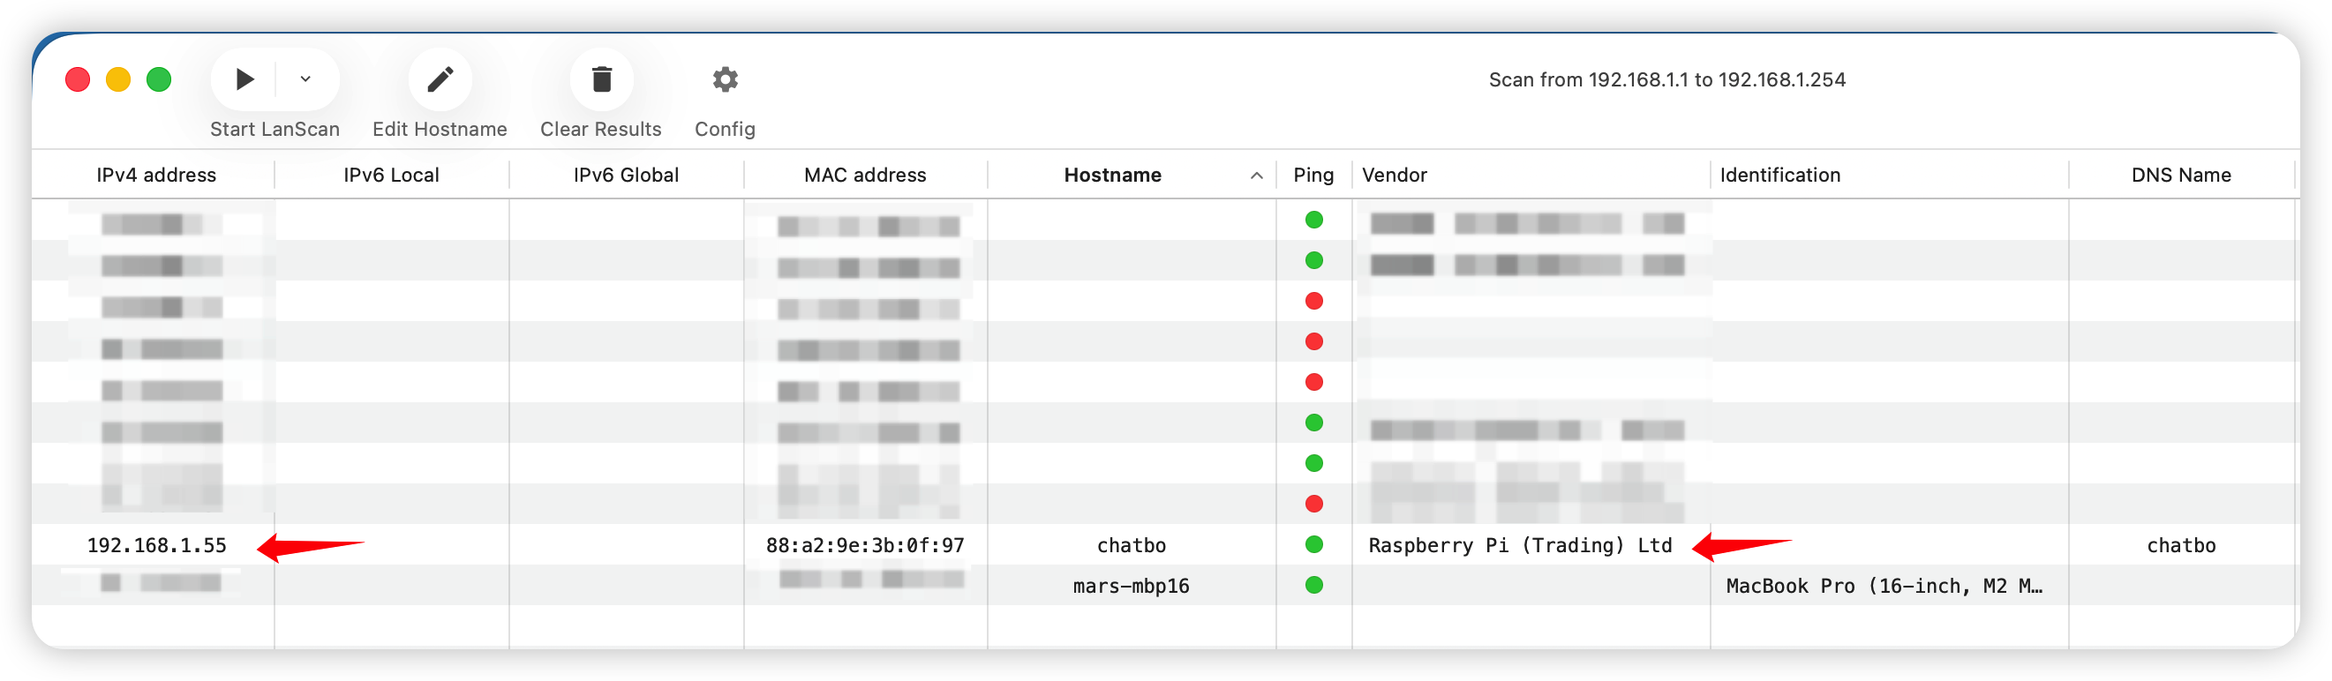
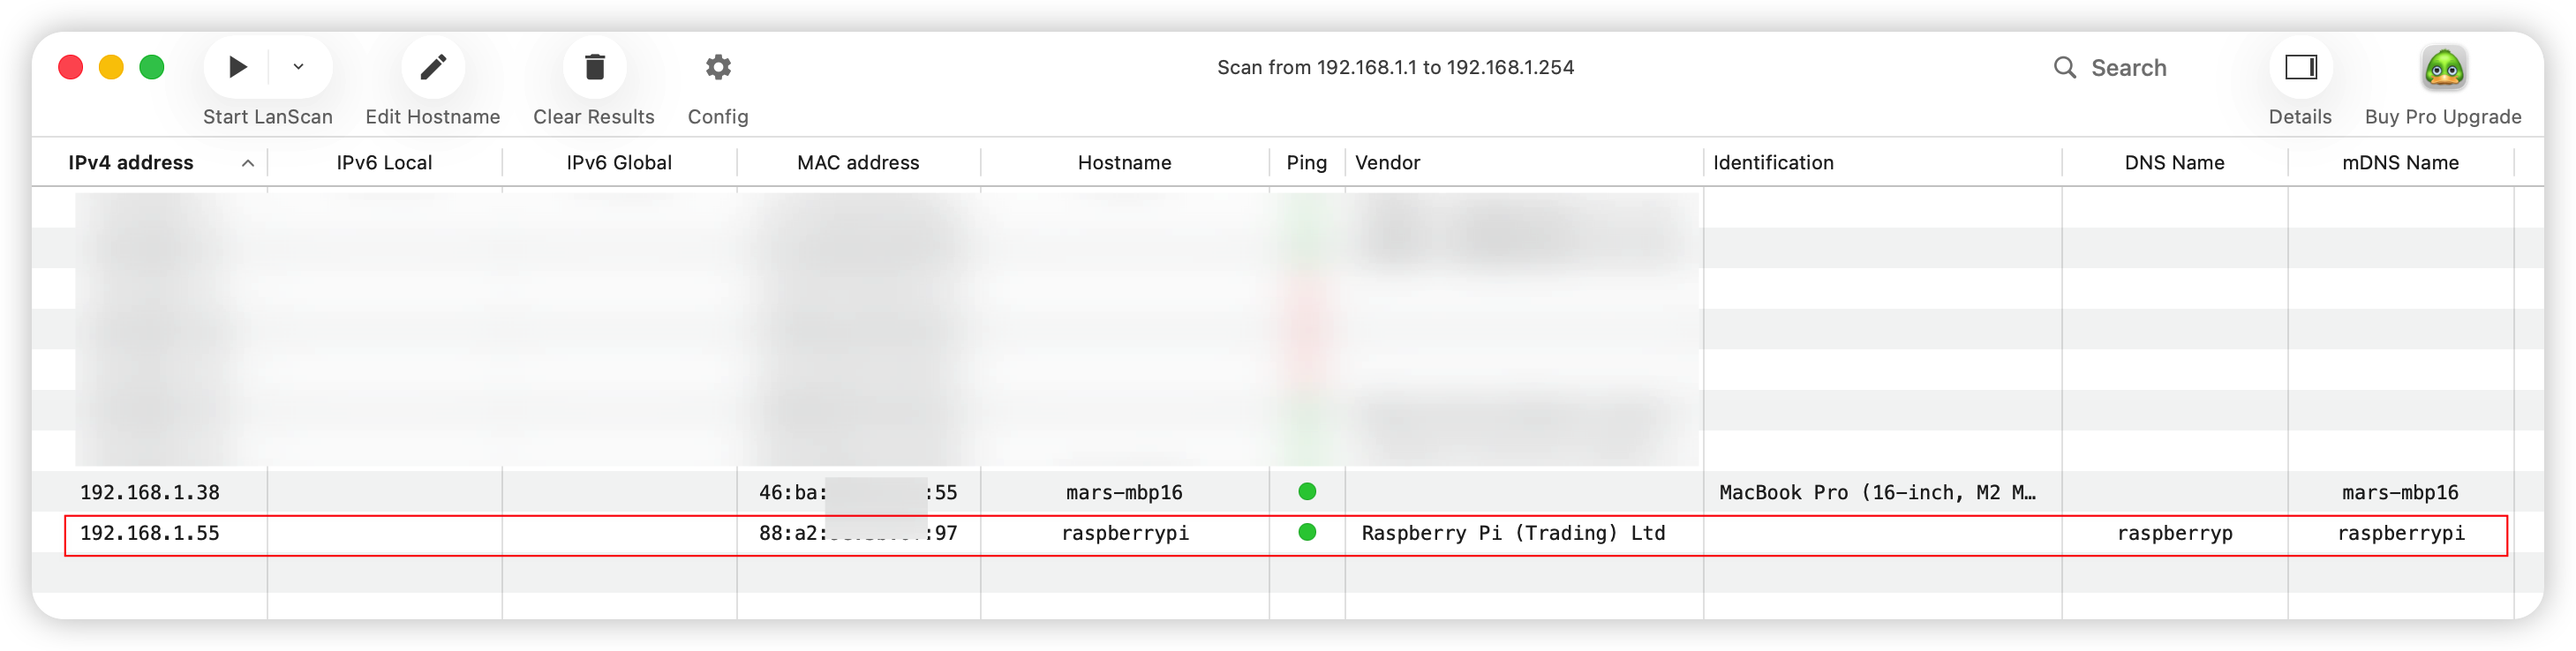
docs: 更新树莓派安装文档图片并添加新文档

diff --git a/docs/Day0/Day-0.2-Whisplay驱动安装.md b/docs/Day0/Day-0.2-Whisplay驱动安装.md
@@ -1,0 +1,28 @@
+# Day 0.2：Whisplay HAT 驱动安装
+
+```shell
+ssh mars@raspberrypi
+# 切换到 root 用户
+su
+```
+
+- 更新系统，这一步很重要，确保系统是最新的（约 10-30 分钟）
+
+
+![apt upgrade 进行中](./images/whisplay_1.png)
+
+
+![apt upgrade 完成](./images/whisplay_2.png)
+
+
+- 本地下载 Whisplay 驱动 [github 驱动仓库](https://github.com/PiSugar/Whisplay/tree/main#) 上传至 pi 的 `/opt/src` 目录
+
+
+
+- 临时配置代理下载 
+
+```shell
+http_proxy=http://192.168.1.38:7897 https_proxy=http://192.168.1.38:7897 git clone https://github.com/whisplay/whisplay-hat.git
+```
+
+
